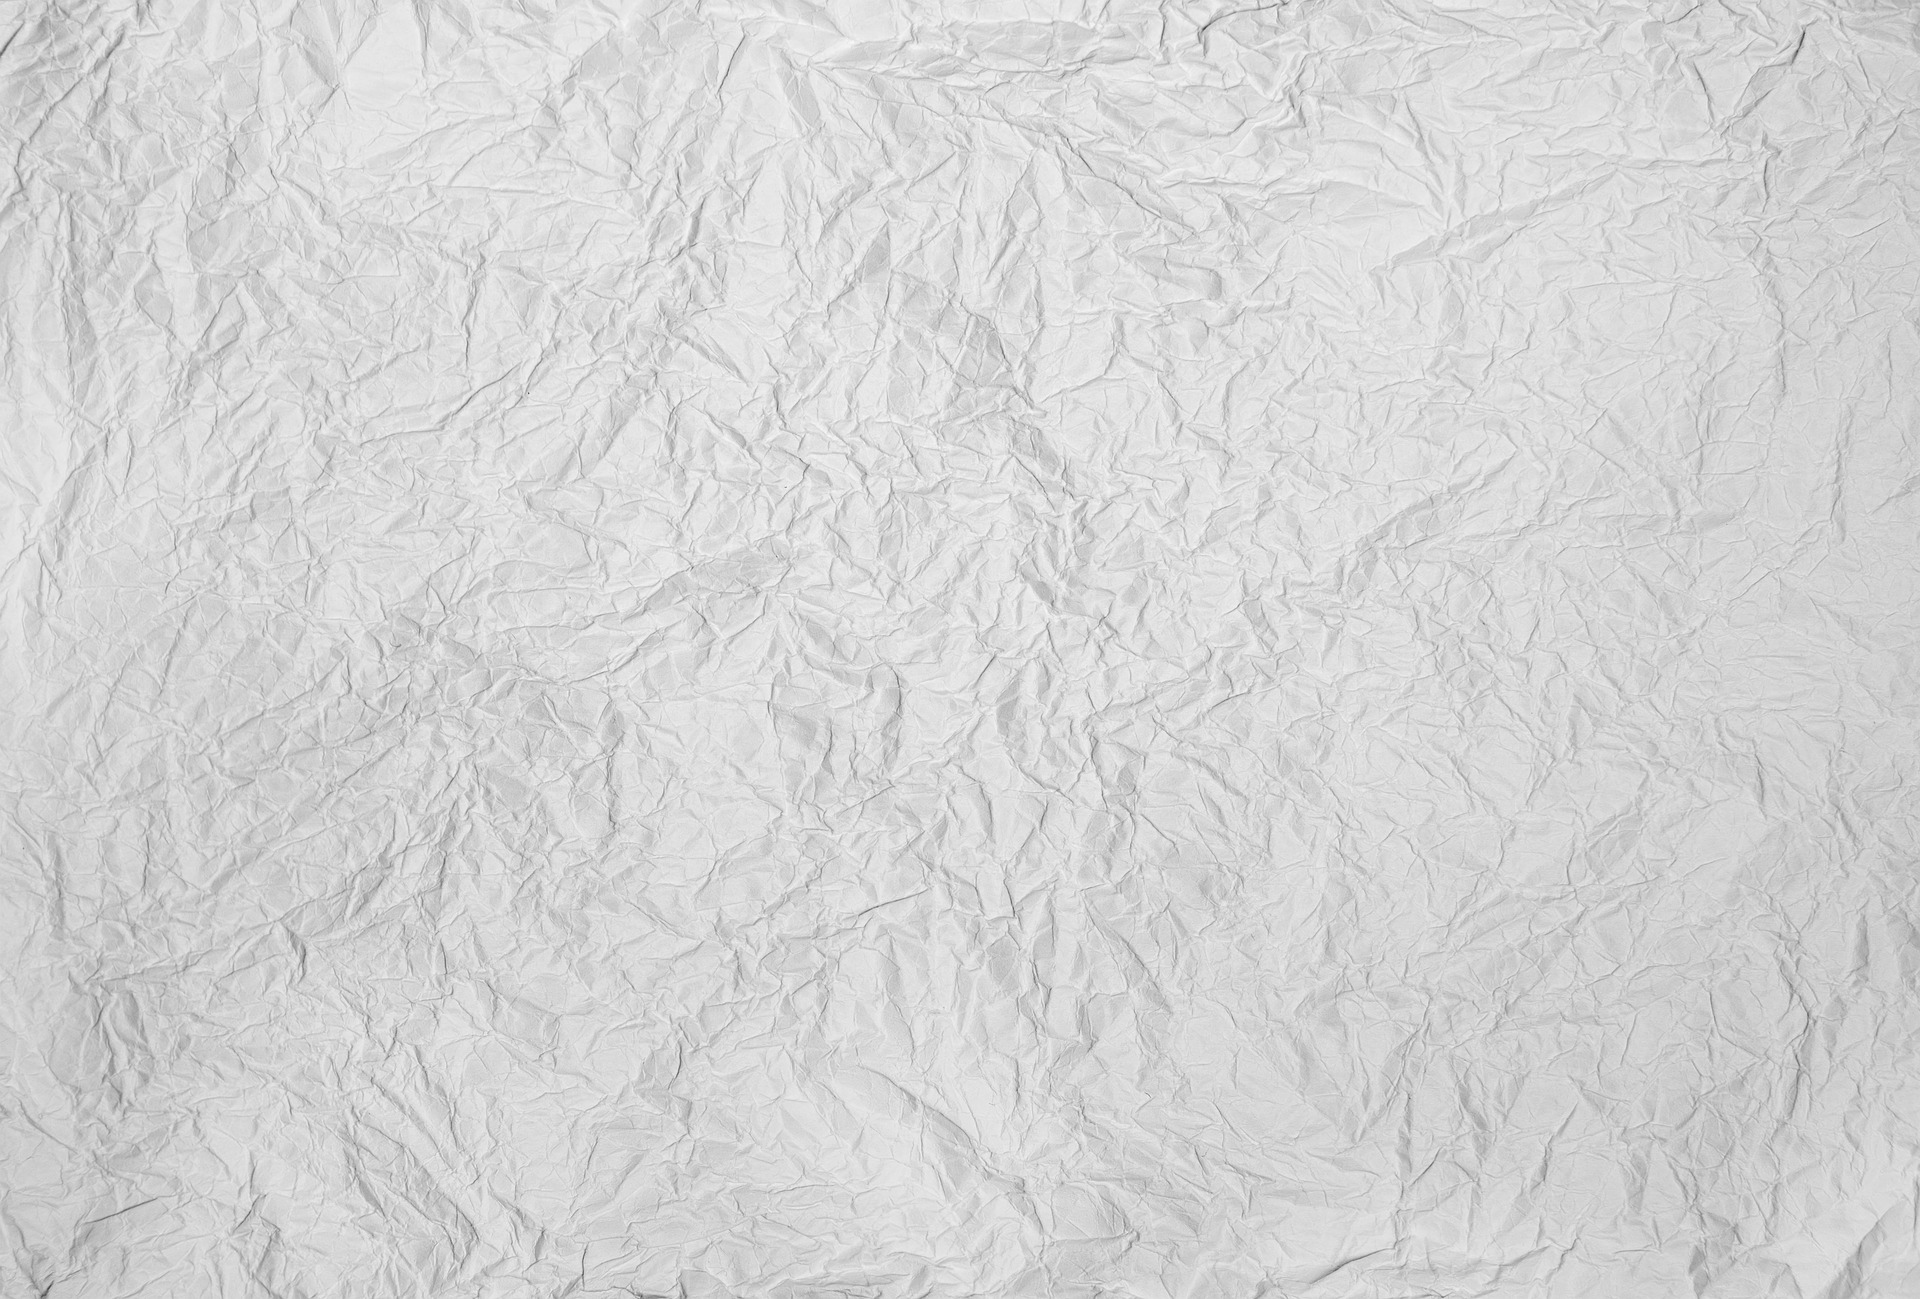
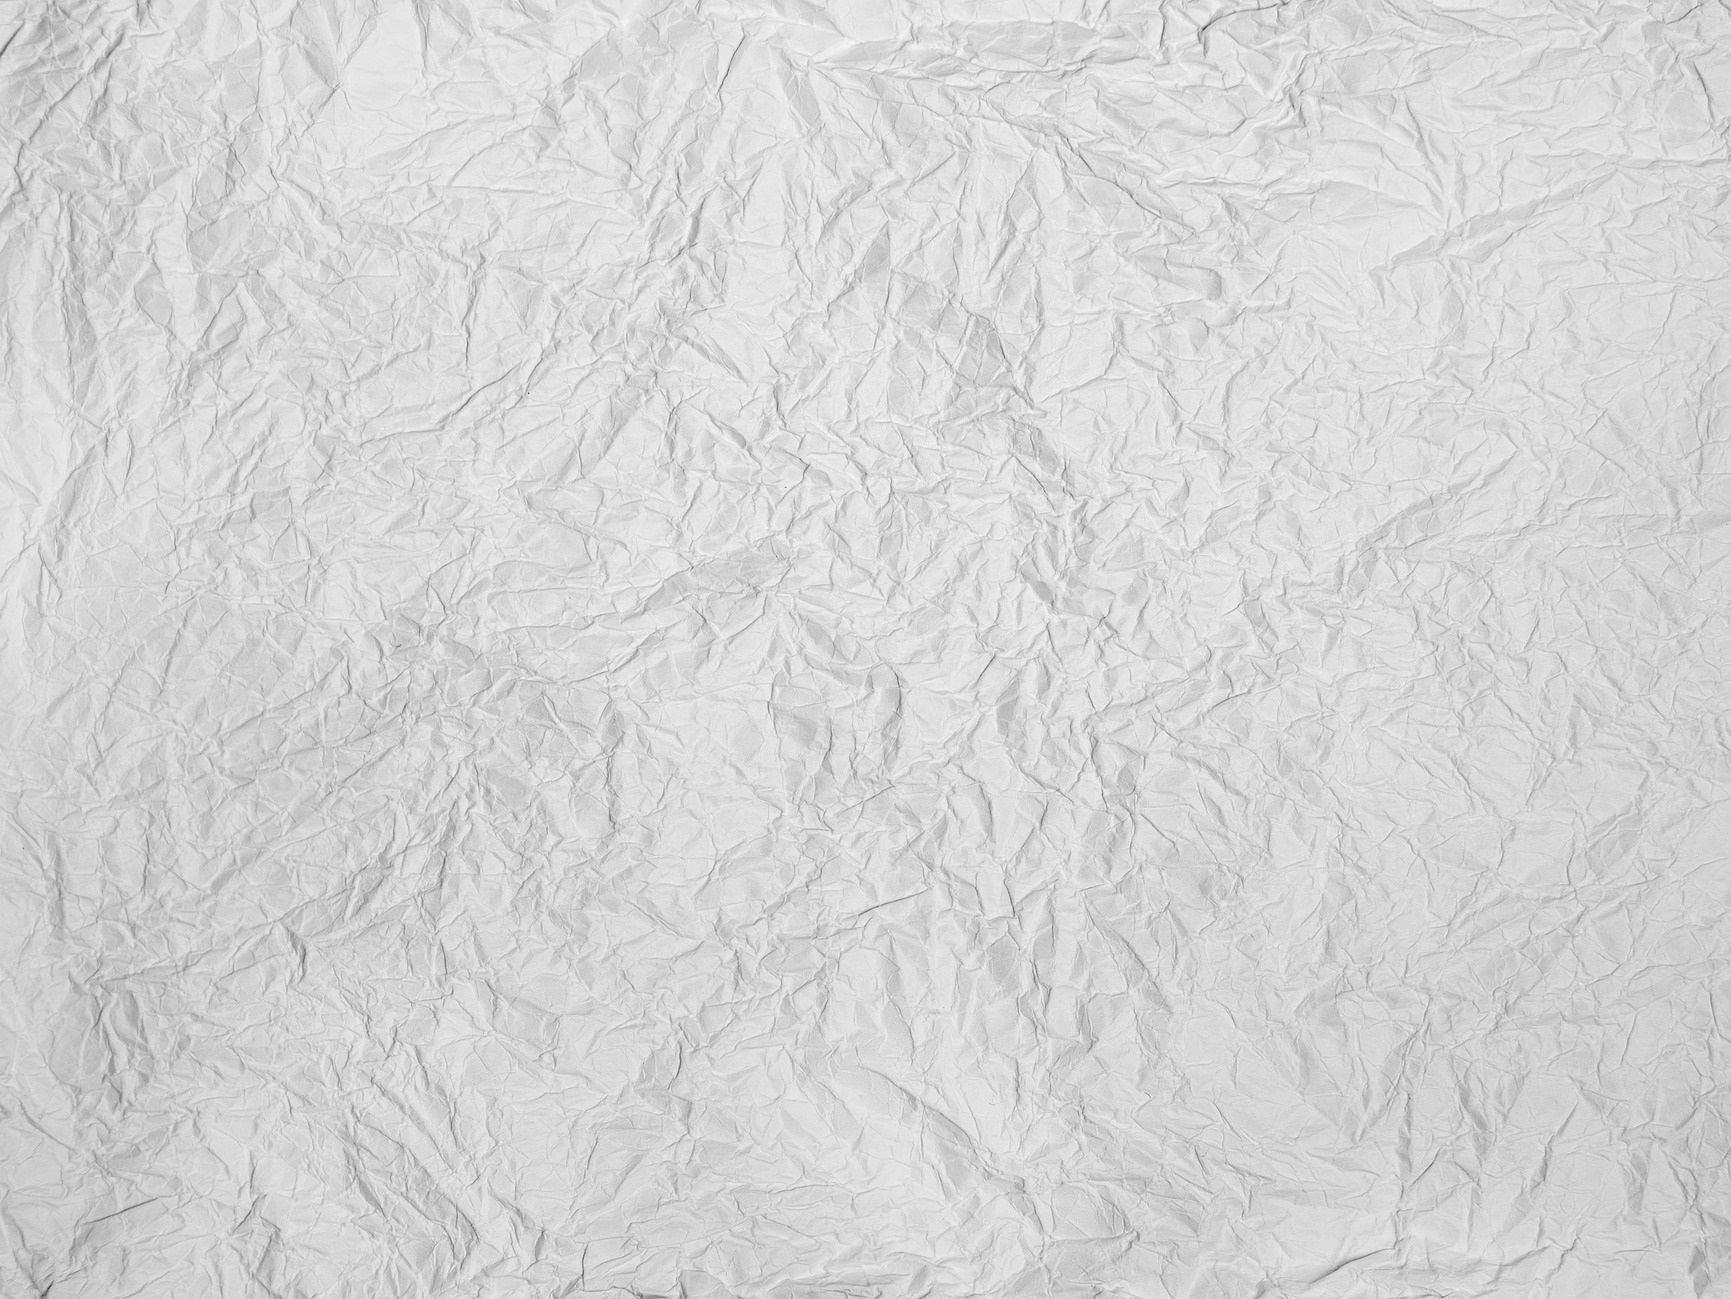
tentativa de correção do fundo

diff --git a/css/Mystyle.css b/css/Mystyle.css
@@ -30,12 +30,23 @@ footer .container p
 }
 
 /*--------------------------------------body----------------------------------------------*/
+/*html 
+{
+    background: url("../imagem/backgroud.jpg") no-repeat center center fixed; 
+    -webkit-background-size: cover;
+    -moz-background-size: cover;
+    -o-background-size: cover;
+    background-size: cover;
+    background-position: center top;
+}*/
 body
 {
+    
     background-image: url("../imagem/backgroud.jpg");
-    background-position: center top;
+    background-position: center center;
     background-repeat: no-repeat;
     background-attachment: fixed;
+    
 }
 /*--------------------------------------Questinário---------------------------------------*/
 

diff --git a/index.html b/index.html
@@ -74,7 +74,7 @@
       <div class="container">
 
         <!-- Jumbotron Header -->
-        <div class="jumbotron my-4">
+        <div class="jumbotron my-4 shadow">
           <h1 class="display-3">Olá, Seja Bem Vindo!</h1>
           <p class="lead">Esta é uma página para a realização do questionário sobre temperamentos.</p>
           <a class="btn btn-primary btn-lg" href="questionario.html" role="button">Começar»</a>
